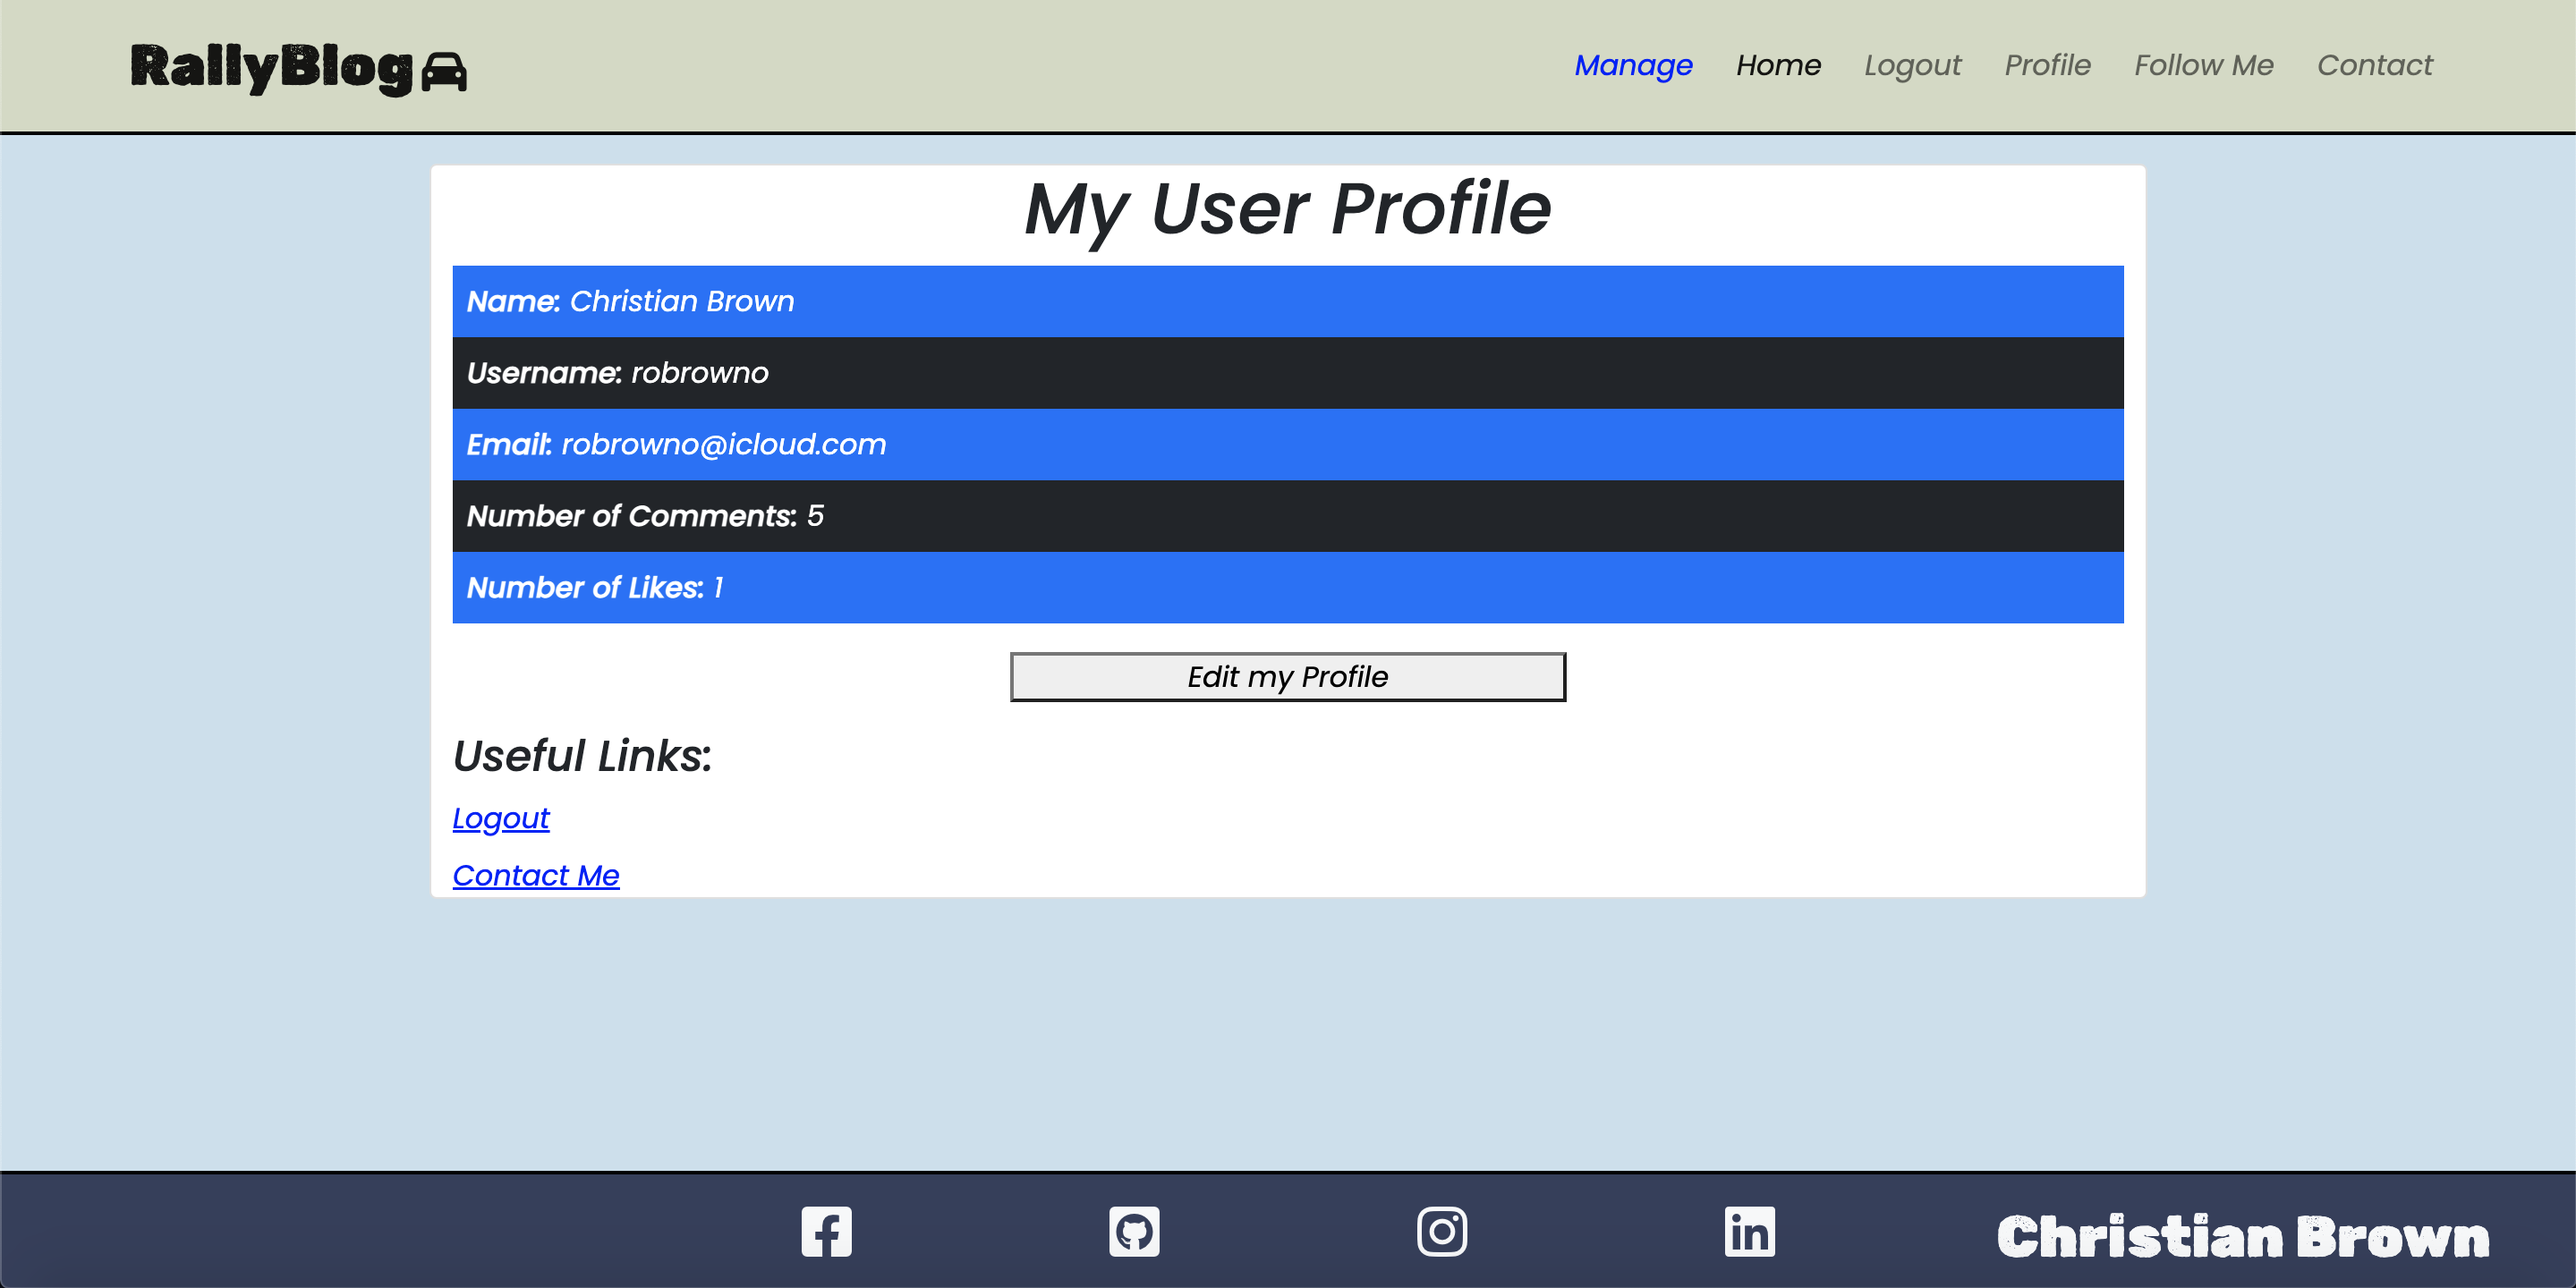
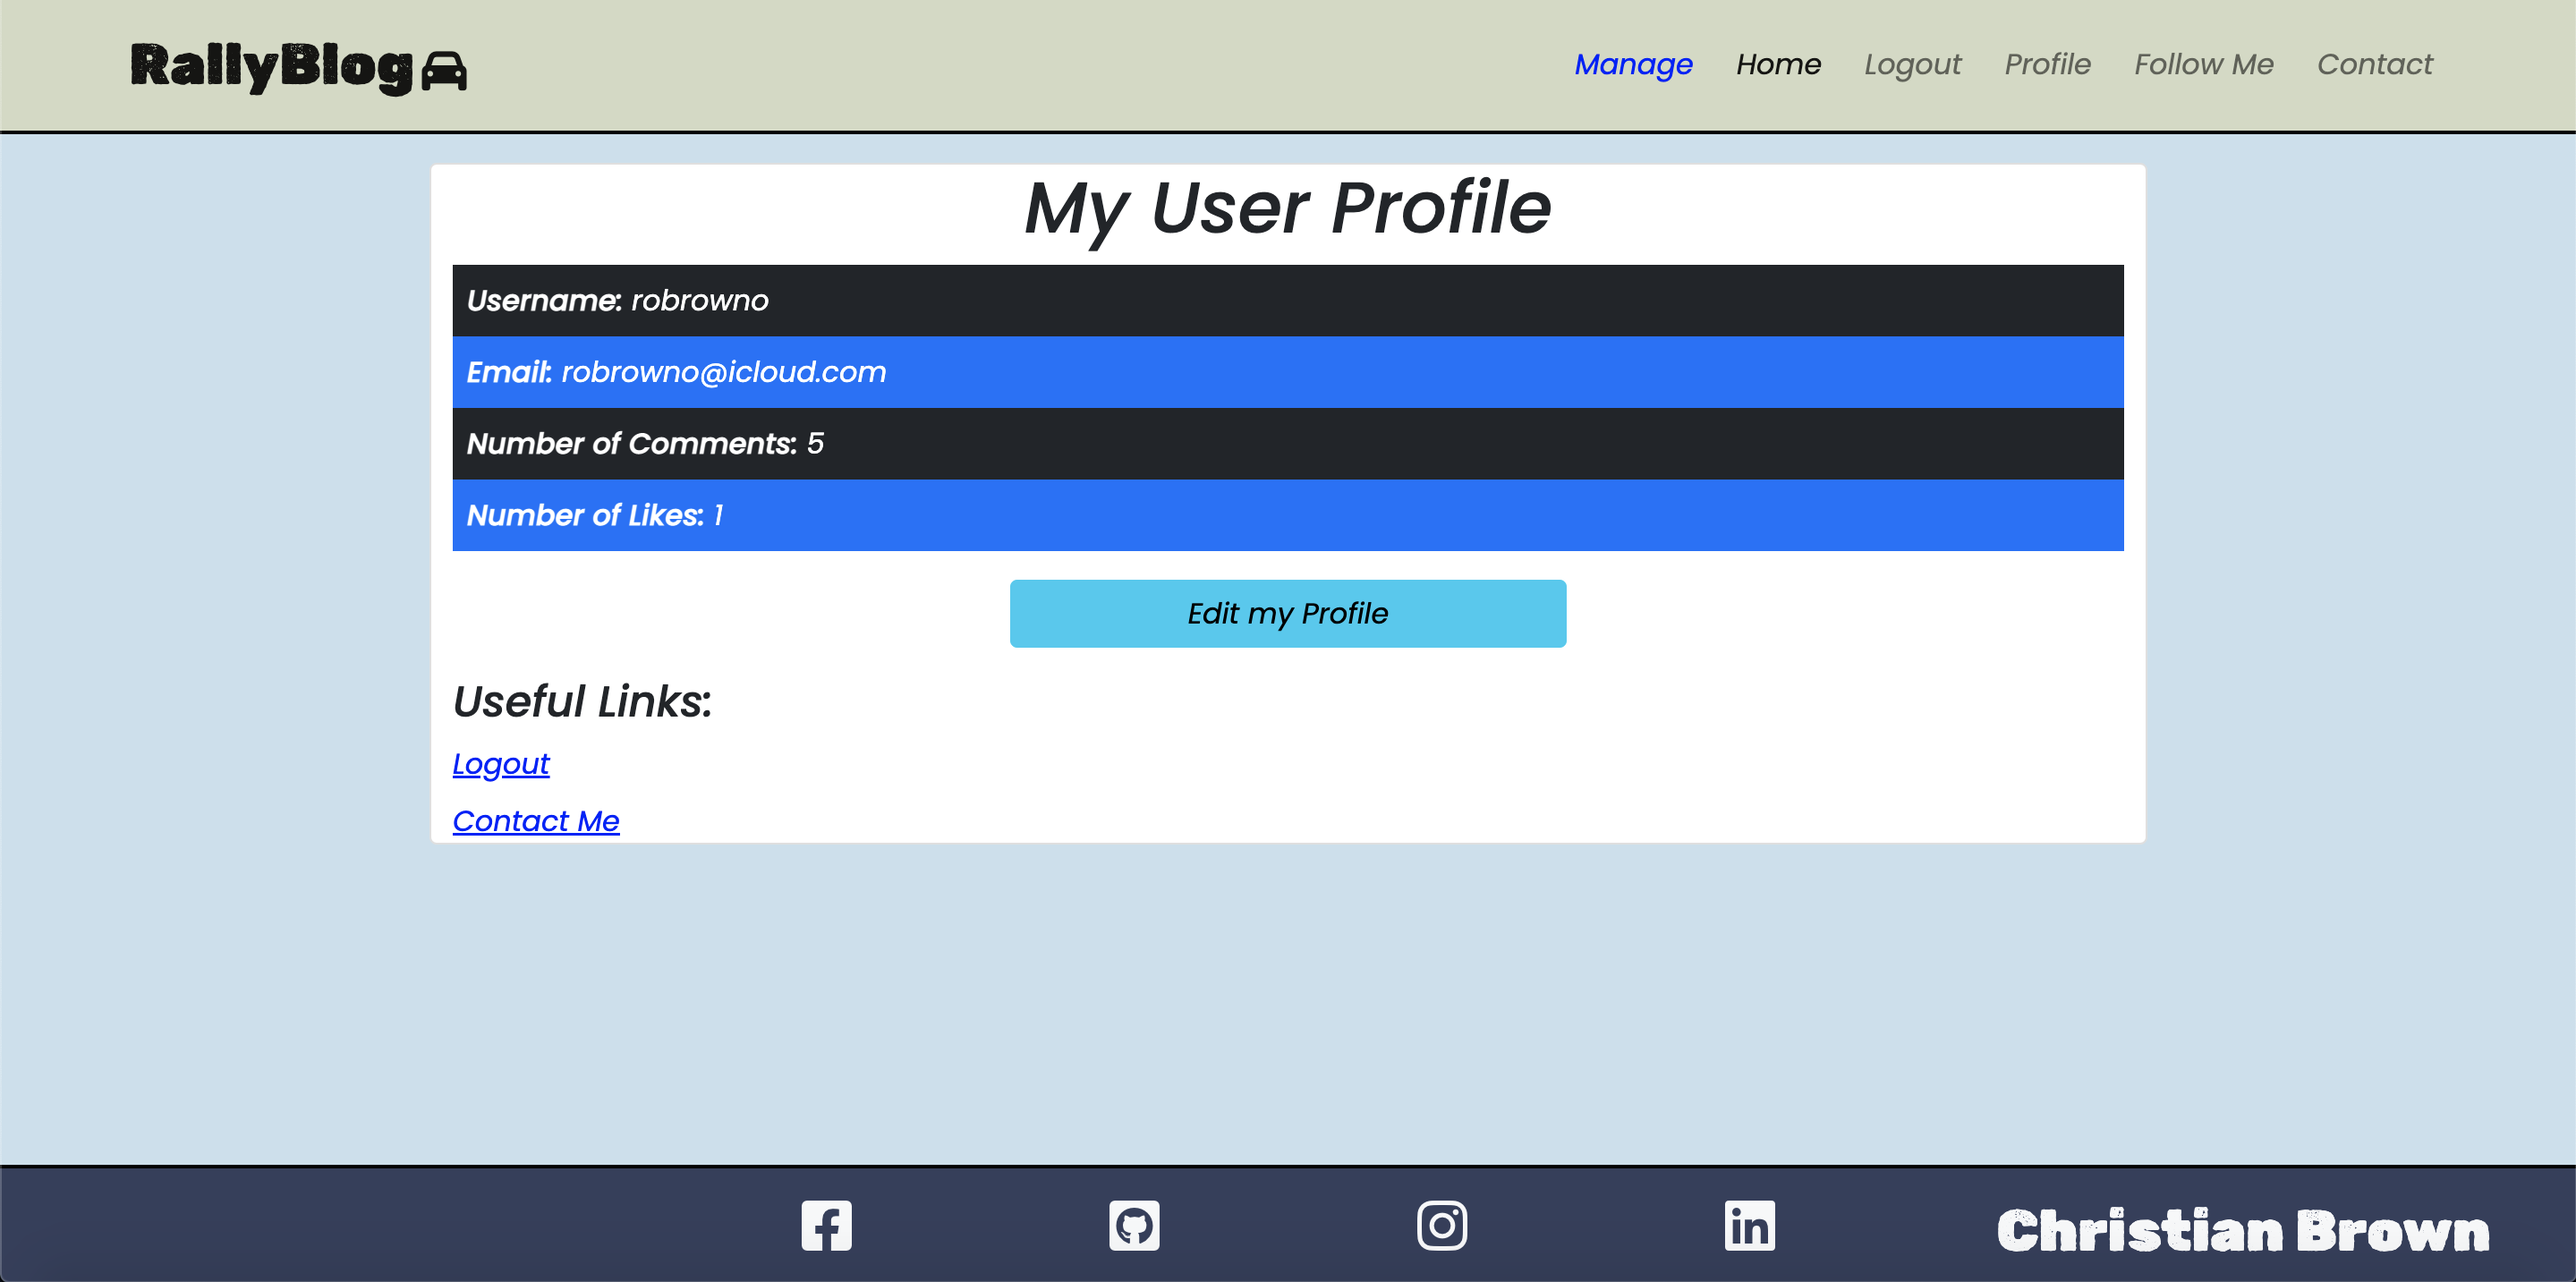
Refactor management forms from html specific into forms.py file, using crispy forms for bootstrap 5 to style. add more message blocks to html templates

diff --git a/templates/pages/manage-post.html b/templates/pages/manage-post.html
@@ -1,4 +1,4 @@
-{% extends 'base.html' %} {% load static %} {% block content %}
+{% extends 'base.html' %} {% load static %} {% block content %} {% load crispy_forms_tags %}
 
 {% if user.is_superuser %}
 
@@ -13,64 +13,31 @@
 
     <div class="container">
 
+
         <div class="row">
-            <form action="" method="">
+            <form action="{% url 'edit' post.slug %}" enctype="multipart/form-data" method="post">
                 {% csrf_token %}
                 <div class="col">
-                    <label for="edit-title" class="form-label mt-2">Title</label>
-                    <input class="form-control" id="edit-title" value="{{ post.title }}">
-                
-                    <label for="image-file" class="form-label mt-2">Upload Image</label>
-                    <input class="form-control" type="file" id="image-file" value="{{ post.featured_image.url }}" >
+                    {{ form|crispy}}
                 </div>
-
-                <div class="col">
-                    <label for="edit-car" class="form-label mt-2">Car</label>
-                    <input class="form-control" id="edit-car" value="{{ post.car }}">
-                
-                    <label for="edit-event" class="form-label mt-2">Event</label>
-                    <input class="form-control" id="edit-event" value="{{ post.event_name }}">
-                </div>
-
-                <div class="col">
-                    <label for="edit-location" class="form-label mt-2">Location</label>
-                    <input class="form-control" id="edit-location" value="{{ post.location }}">
-                
-                    <!-- {% if post.class_result != None %} -->
-                    <label for="edit-class-result" class="form-label mt-2">Class Result</label>
-                    <input class="form-control" id="edit-class-result" value="{{ post.class_result }}">
-                    <!-- {% endif %} -->
-                
-                    <!-- {% if post.overall_result != None %} -->
-                    <label for="edit-overall-result" class="form-label mt-2">Overall Result</label>
-                    <input class="form-control" id="edit-overall-result" value="{{ post.overall_result }}">
-                    <!-- {% endif %} -->
-                </div>
-                <div class="col-md-12 mt-2">
-                    <label for="edit-content" class="form-label">Content</label>
-                    <textarea class="form-control" rows="7" id="edit-content">{{ post.content }}</textarea>
-                </div>
-                
-
-            </div>
-            <div class="col-md-12 mb-3 mt-2">
-              <button class="btn btn-primary" type="submit" value="submit">Update Post</button>
-            </div>
-
-
-
-
-            </form>
         </div>
+        <div class="col-md-12 mb-3 mt-2">
+            <button class="btn btn-primary" type="submit" value="submit">Update Post</button>
+        </div>
+
+
+
+
+        </form>
     </div>
-
-
+</div>
 
 
 </div>
 {% else %}
 
-<h1 class="text-center mt-5"> Sorry, you can't view this page! Click <a class="link-primary text-decoration-underline" href="/">Here</a> to go back!</h1>
+<h1 class="text-center mt-5"> Sorry, you can't view this page! Click <a class="link-primary text-decoration-underline"
+        href="/">Here</a> to go back!</h1>
 
 {% endif %}
 

diff --git a/templates/pages/add-post.html b/templates/pages/add-post.html
@@ -1,6 +1,15 @@
-{% extends 'base.html' %} {% load static %} {% block content %}
+{% extends 'base.html' %} {% load static %} {% block content %} {% load crispy_forms_tags %}
 
 {% if user.is_superuser %}
+
+<div class="container">
+    {% if messages %} {% for message in messages %}
+    <div class="alert {{ message.tags }} alert-dismissible fade show" role="alert">
+        {{message}}
+        <button type="button" class="btn-close" data-bs-dismiss="alert" aria-label="Close"></button>
+    </div>
+    {% endfor %} {% endif %}
+</div>
 
 <div class="container-fluid mt-3">
     <div class="row">
@@ -9,40 +18,33 @@
         </div>
 
         <h1 class="text-center">Add Post</h1>
+    </div class="container">
+
+
+    <div class="row">
+        <form action="{% url 'add' %}" enctype="multipart/form-data" method="post" accept="image/*">
+            {% csrf_token %}
+            <div class="col {{ field_class }}">
+                {{ form|crispy }}
+            </div>
+            <div class="col-md-12 mb-3 mt-2">
+                <button class="btn btn-primary" type="submit" value="submit">Upload Post</button>
+            </div>
+        </form>
     </div>
-
-    <!-- 
-
-        title
-        slug?
-        image
-        car
-        event
-        location
-        class result
-        overall result
-        content
-
-    -->
-
-
-
-
-
-
-
-
+</div>
 
 
 </div>
-        
+
 
 
 
 
 {% else %}
 
-<h1 class="text-center mt-5"> Sorry, you can't view this page! Click <a class="link-primary text-decoration-underline" href="/">Here</a> to go back!</h1>
+<h1 class="text-center mt-5"> Sorry, you can't view this page! Click <a class="link-primary text-decoration-underline"
+        href="/">Here</a> to go back!</h1>
 
 {% endif %}
 

diff --git a/templates/pages/edit-profile.html b/templates/pages/edit-profile.html
@@ -26,7 +26,7 @@
                 <label class="form-label" for="edit-email">Email: </label>
                 <input class="form-control" id="edit-email" name="edit-email" type="email" value="{{ user.email }}">
                 <input type="hidden" name="edit_user_id" value="{{ user.id }}"/>
-                <button id="sub_butt" class="col-sm-4 offset-sm-4 submit-button mt-3" type="submit" value="submit">Save</button>
+                <button id="sub_butt" class="btn btn-info col-sm-4 offset-sm-4 submit-button mt-3" type="submit" value="submit">Save</button>
             </form>
             <div class="col-sm-2">
                 <button class="btn btn-primary"><a href="{% url 'profile' %}">Go Back</a></button>
@@ -47,7 +47,7 @@
 
             <div class="container" id="delete-account">
                 <div class="row">
-                    <div class=" col-sm-2 col-md-4 offset-sm-10 offset-md-9">
+                    <div class=" col-sm-2 col-md-5 offset-sm-10 offset-md-9">
                         <!-- Button trigger modal -->
                         <button type="button" class="btn btn-danger" data-bs-toggle="modal"
                             data-bs-target="#staticBackdrop">

diff --git a/templates/pages/index.html b/templates/pages/index.html
@@ -1,6 +1,15 @@
 {% extends 'base.html' %} {% load static %} {% block content %}
 <link rel="stylesheet" href="{% static 'style/pages/index.css' %}">
 
+<div class="container">
+  {% if messages %} {% for message in messages %}
+  <div class="alert {{ message.tags }} alert-dismissible fade show" role="alert">
+      {{message}}
+      <button type="button" class="btn-close" data-bs-dismiss="alert" aria-label="Close"></button>
+  </div>
+  {% endfor %} {% endif %}
+</div>
+
 
 <!-- Home Page Post Cards -->
 <div class="container-fluid my-5 d-flex flex-wrap justify-content-center">

diff --git a/templates/pages/manage-index.html b/templates/pages/manage-index.html
@@ -5,6 +5,14 @@
 {% if user.is_superuser %}
 <button class="btn btn-success"><a href="{% url 'add' %}">&plus; Add Post</a></button>
 
+<div class="container">
+  {% if messages %} {% for message in messages %}
+  <div class="alert {{ message.tags }} alert-dismissible fade show" role="alert">
+      {{message}}
+      <button type="button" class="btn-close" data-bs-dismiss="alert" aria-label="Close"></button>
+  </div>
+  {% endfor %} {% endif %}
+</div>
 
 <!-- Home Page Post Cards -->
 <div class="container-fluid my-5 d-flex flex-wrap justify-content-center">

diff --git a/templates/pages/my-profile.html b/templates/pages/my-profile.html
@@ -15,7 +15,7 @@
             <div class="card-body d-inline p-2 bg-primary text-white"> <strong>Number of Likes:</strong>
                 {{ count_total_likes }}</div>
             <!-- Link to edit Profile page -->
-            <button class="col-md-4 submit-button mt-3 mx-auto"><a href="/edit-profile">Edit my Profile</a></button>
+            <button class="btn btn-info col-md-4 submit-button mt-3 mx-auto"><a href="/edit-profile">Edit my Profile</a></button>
 
 
             <div>

diff --git a/static/style/pages/login.css b/static/style/pages/login.css
@@ -33,4 +33,16 @@
     #delete-account {
         padding-left: 0;
     }
+
+    #sub_butt {
+        margin-bottom: 10px;
+    }
+}
+
+/* Adjust the margin of delete-account button on larger screens */
+@media all and (min-width:1400px) {
+
+    #delete-account {
+        margin-left: 60px;
+    }
 }

diff --git a/templates/pages/accounts/password_change.html b/templates/pages/accounts/password_change.html
@@ -30,7 +30,7 @@
             {% else %}
             <h1>problem-> no user_id found</h1>
             {% endif %}
-            <button class="btn" type="submit">Submit</button>
+            <button class="btn btn-primary my-1" type="submit">Submit</button>
 
         </form>
     </div>

diff --git a/rallyApp/views.py b/rallyApp/views.py
@@ -10,6 +10,7 @@ from django.core.paginator import Paginator
 from . import models
 from .models import Contact, Comment, Post, Like
 from .helpers import send_forget_password_mail
+from .forms import AddPostForm, EditPostForm
 
 
 @csrf_exempt
@@ -413,7 +414,21 @@ def add_post(request):
     Function for adding a post from the management page.
     """
 
-    return render(request, 'pages/add-post.html')
+    if request.method == 'POST':
+
+        form = AddPostForm(request.POST)
+        if form.is_valid():
+            messages.success(request, "The post has successfully been added.")
+            form.save()
+
+    else:
+        form = AddPostForm()
+
+    context = {
+        "form": form
+    }
+
+    return render(request, 'pages/add-post.html', context)
 
 
 def edit_post(request, slug):
@@ -424,10 +439,24 @@ def edit_post(request, slug):
 
     post_details = get_object_or_404(Post, slug=slug)
 
-    context = {
-        "post": post_details
-    }
+    published = False
+    if request.method == 'POST':
 
+        form = EditPostForm(request.POST)
+        if form.is_valid():
+            Post.post_status = 1
+            form.save()
+
+    else:
+        form = AddPostForm()
+        if 'published' in request.GET:
+            published = True
+
+    context = {
+        "post": post_details,
+        "form": form,
+        "published": published
+    }
     return render(request, 'pages/manage-post.html', context)
 
 
@@ -440,6 +469,7 @@ def delete_post(request, id):
         post = Post.objects.get(id=id)
         post.delete()
         messages.success(request, 'Post was successfully deleted!')
+        return redirect('home')
     else:
         messages.error(
             request, 'Unable to delete the post at this time. Try again later.'

diff --git a/rallyApp/forms.py b/rallyApp/forms.py
@@ -1,0 +1,26 @@
+from django import forms
+from .models import Post
+
+
+class AddPostForm(forms.ModelForm):
+
+    content = forms.CharField(widget=forms.Textarea(attrs={
+        'class': 'form-control',
+        'rows': 3
+    }))
+
+    class Meta:
+        model = Post
+        fields = '__all__'
+        widgets = {'likes': forms.HiddenInput(), 'comments': forms.HiddenInput()}
+
+class EditPostForm(forms.ModelForm):
+
+    content = forms.CharField(widget=forms.Textarea(attrs={
+        'class': 'form-control',
+        'rows': 3
+    }))
+
+    class Meta:
+        model = Post
+        fields = '__all__'

diff --git a/rallyApp/models.py b/rallyApp/models.py
@@ -15,7 +15,7 @@ class Post(models.Model):
     """
     title = models.CharField(max_length=150)
     slug = AutoSlugField(max_length=150, populate_from='title', unique=True)
-    author = models.ForeignKey(User, on_delete=models.CASCADE)
+    author = models.ForeignKey(User, on_delete=models.CASCADE, null=True, blank=True)
     created_on = models.DateTimeField(auto_now_add=True)
     updated_on = models.DateTimeField(auto_now=True)
     event_name = models.CharField(max_length=150)

diff --git a/rallyProject/settings.py b/rallyProject/settings.py
@@ -55,6 +55,8 @@ INSTALLED_APPS = [
     'cloudinary_storage',
     'django.contrib.staticfiles',
     'django_extensions',
+    "crispy_forms",
+    "crispy_bootstrap5",
     'cloudinary',
     'django_summernote',
     'rallyApp',
@@ -89,6 +91,10 @@ TEMPLATES = [
 ]
 
 WSGI_APPLICATION = 'rallyProject.wsgi.application'
+
+CRISPY_ALLOWED_TEMPLATE_PACKS = "bootstrap5"
+
+CRISPY_TEMPLATE_PACK = "bootstrap5"
 
 
 # Database
